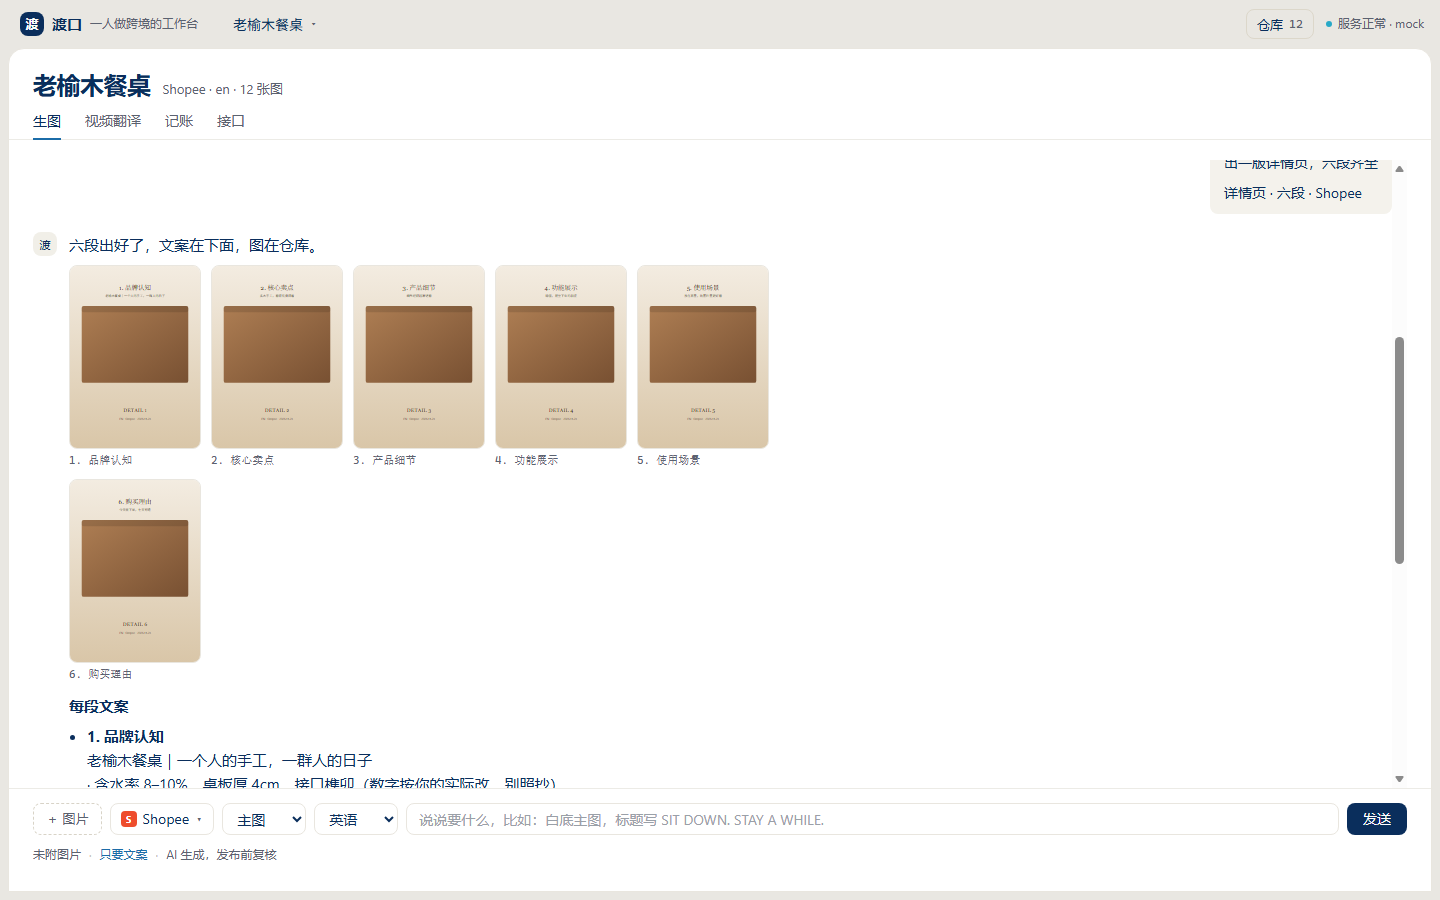
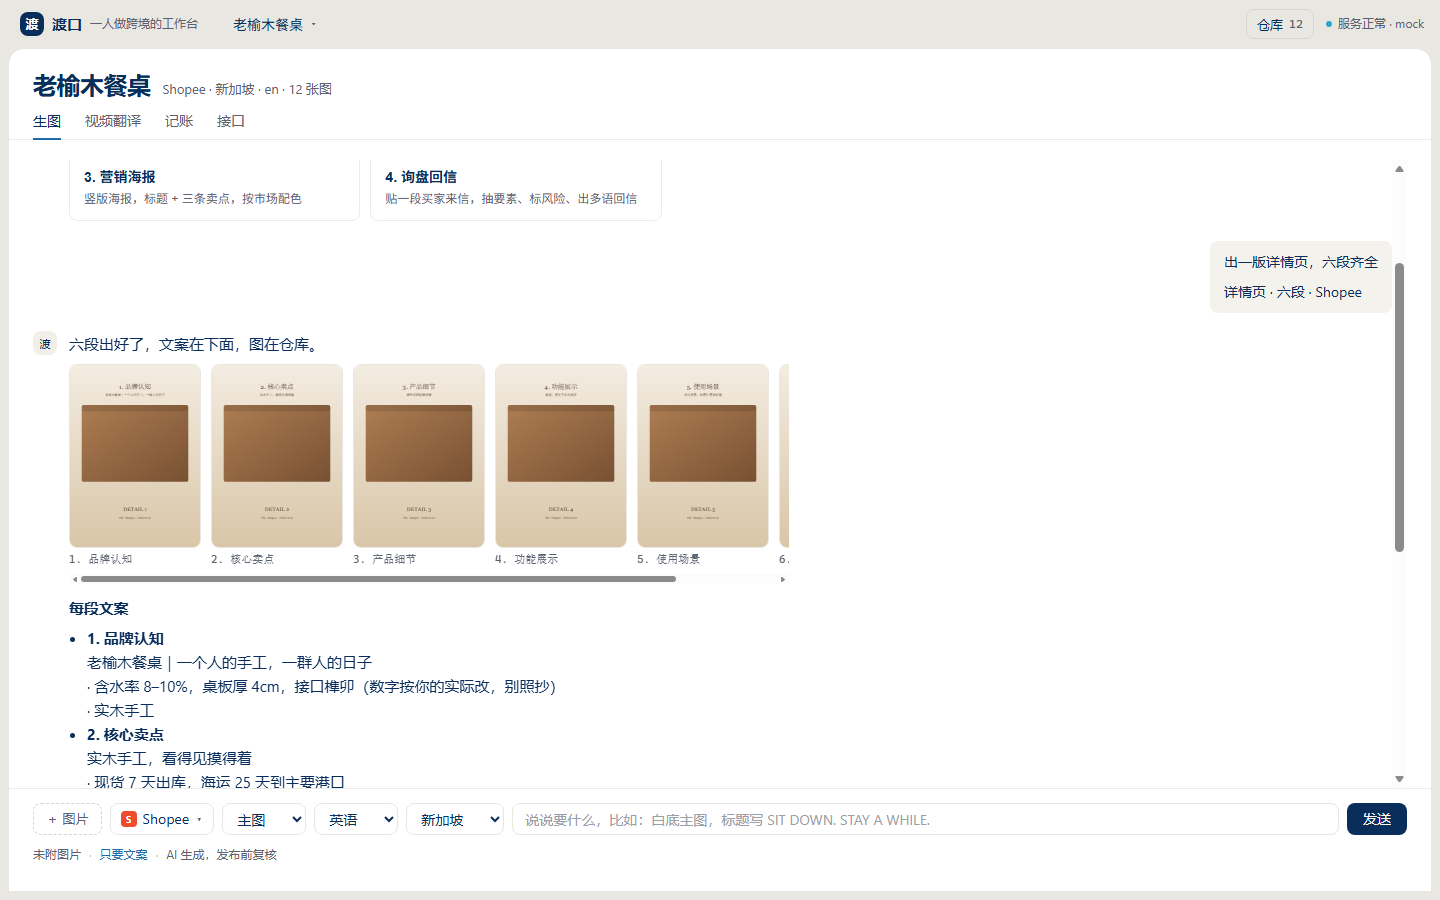
feat(motion): 图集横向吸附、出图落入、删除可撤销（软删 + restore）

diff --git a/web/app.js b/web/app.js
@@ -263,12 +263,53 @@ async function whDeletePicked() {
   refreshMeta();
   renderWhBar();
   renderWarehouse();
+  toast(`已删除 ${ids.length} 张`, async () => {
+    for (const id of ids) await api(`/api/assets/${id}/restore`, { method: 'POST' }).catch(() => {});
+    state.current = await api(`/api/products/${state.current.id}`);
+    refreshMeta();
+    renderWarehouse();
+    toast('已恢复');
+  });
+}
+
+/* 底部提示条：删除这类可逆操作给 6 秒后悔时间 */
+let toastTimer = null;
+function toast(text, onUndo) {
+  const el = $('#toast');
+  if (!el) return;
+  $('#toastText').textContent = text;
+  const btn = $('#toastUndo');
+  btn.classList.toggle('hidden', !onUndo);
+  btn.onclick = async () => {
+    el.classList.remove('show');
+    if (onUndo) await onUndo();
+  };
+  el.classList.remove('hidden');
+  void el.offsetWidth;
+  el.classList.add('show');
+  clearTimeout(toastTimer);
+  toastTimer = setTimeout(() => el.classList.remove('show'), onUndo ? 6000 : 2400);
+  el.addEventListener(
+    'transitionend',
+    () => {
+      if (!el.classList.contains('show')) el.classList.add('hidden');
+    },
+    { once: true },
+  );
 }
 
 function renderWarehouse() {
   const { base, images, copies, content, inquiry } = whAssets();
   const texts = copies.length + content.length + inquiry.length;
-  $('#whCount').textContent = base.length + images.length + texts;
+  const total = base.length + images.length + texts;
+  $('#whCount').textContent = total;
+  if (state.lastWhCount != null && total > state.lastWhCount) {
+    const btn = $('#btnWarehouse');
+    btn.classList.remove('bump');
+    void btn.offsetWidth;
+    btn.classList.add('bump');
+  }
+  state.lastWhCount = total;
   $('#whImgNum').textContent = base.length + images.length;
   $('#whCopyNum').textContent = texts;
   $$('.wh-tab').forEach((t) => t.classList.toggle('active', t.dataset.wh === state.whTab));
@@ -539,8 +580,10 @@ function say(container, who, html, opts = {}) {
 function shots(bubble, assets) {
   const wrap = document.createElement('div');
   wrap.className = 'shots';
-  for (const a of assets) {
+  assets.forEach((a, i) => {
     const fig = document.createElement('figure');
+    fig.className = 'drop';
+    fig.style.animationDelay = `${i * 45}ms`;
     fig.innerHTML = `<img src="${a.url}" alt=""><figcaption>${a.kind} · ${a.width}×${a.height}</figcaption>`;
     const img = fig.querySelector('img');
     img.onclick = () => window.open(a.url, '_blank');
@@ -549,7 +592,9 @@ function shots(bubble, assets) {
       if (scroller) scroller.scrollTop = scroller.scrollHeight;
     };
     wrap.appendChild(fig);
-  }
+  });
+  // 三张以上改成横向吸附条，别把气泡撑成一堵墙
+  if (assets.length > 3) wrap.classList.add('many');
   bubble.appendChild(wrap);
   patchHistory(bubble.innerHTML);
 }
@@ -1136,7 +1181,7 @@ async function doDetail(askText) {
       .join('');
     say(inner, 'ai', `
       <p>六段出好了${r.errors?.length ? `（${r.errors.length} 段失败）` : ''}，文案在下面，图在仓库。</p>
-      <div class="shots">${shots}</div>
+      <div class="shots many">${shots}</div>
       <h3>每段文案</h3><ul>${copies}</ul>
       <p class="muted-sm">${esc(r.note || '')}</p>`);
     refreshMeta();

diff --git a/web/style.css b/web/style.css
@@ -674,3 +674,30 @@ h1 { letter-spacing: -0.02em; }
   .msg.ai.fresh .bubble > *, .wh-item, .wh-item.removing, .wh-grid.settling { animation: none !important; }
   .ripple { display: none; }
 }
+
+/* ============ 补充三项：吸附条 / 落入 / 撤销 ============ */
+
+/* 图集：三张以上横向吸附，速度快时自己滑到位 */
+.shots.many { display: grid; grid-auto-flow: column; grid-auto-columns: 132px; gap: 10px;
+  overflow-x: auto; scroll-snap-type: x mandatory; overscroll-behavior-x: contain;
+  padding-bottom: 6px; scrollbar-width: thin; }
+.shots.many figure { scroll-snap-align: start; }
+.shots.many::-webkit-scrollbar { height: 6px; }
+.shots.many::-webkit-scrollbar-thumb { background: #d9d5cc; border-radius: 3px; }
+
+/* 出图结果落入：从上方压下来一点，像卡牌落桌 */
+@keyframes dropIn { 0% { opacity: 0; transform: translateY(-12px) scale(0.96); } 70% { opacity: 1; transform: translateY(1px) scale(1.004); } 100% { opacity: 1; transform: none; } }
+.shots figure.drop { animation: dropIn 320ms var(--ease-out) both; }
+
+/* 仓库计数弹一下 */
+@keyframes countBump { 0% { transform: scale(1); } 40% { transform: scale(1.22); } 100% { transform: scale(1); } }
+#btnWarehouse.bump .count { animation: countBump 380ms var(--ease-out); display: inline-block; }
+
+/* 撤销条 */
+.toast { position: fixed; left: 50%; bottom: 88px; transform: translate(-50%, 8px); z-index: 60;
+  display: flex; align-items: center; gap: 14px; padding: 10px 16px; border-radius: 999px;
+  background: var(--ink); color: #f5f0e6; font-size: 13px; box-shadow: 0 6px 20px rgba(10, 46, 92, 0.18);
+  opacity: 0; transition: opacity 180ms var(--ease-out), transform 220ms var(--ease-out); pointer-events: none; }
+.toast.show { opacity: 1; transform: translate(-50%, 0); pointer-events: auto; }
+.toast .link { color: #f2c14e; font-weight: 600; }
+@media (prefers-reduced-motion: reduce) { .toast { transition: none; } .shots figure.drop { animation: none; } }

diff --git a/web/index.html b/web/index.html
@@ -189,6 +189,11 @@
   <div id="whBody" class="wh-body"></div>
 </aside>
 
+<div id="toast" class="toast hidden" role="status" aria-live="polite">
+  <span id="toastText"></span>
+  <button id="toastUndo" class="link hidden" type="button">撤销</button>
+</div>
+
 <!-- 出图前问一句：几张、多大、多清晰。常用项都在，最后一格留给自定义 -->
 <script type="module" src="/app.js"></script>
 </body>

diff --git a/README.md b/README.md
@@ -106,6 +106,10 @@ data/             运行时数据（db.json + uploads/），不进 git
 | 参数卡「要几张」 | 速度吸附滑块 | 松手按拖动速度多走一格再吸附整数 |
 | 任务进度条 | 弹簧步进 | rAF 弹簧追目标值，不再一格一格跳 |
 | tab / chip / 平台项 / 按钮 | 波纹 | 点击处涟漪，只给开关类控件 |
-| 仓库删图 | 弧形折叠 | `clip-path + rotate` 收走后再删 |
+| 仓库删图 | 弧形折叠 | `clip-path + rotate` 收走后再删，6 秒内可撤销 |
+| 一条消息多张图 | 横向吸附 | 三张以上改为 scroll-snap 横条，不再堆成一墙 |
+| 出图落袋 | 落入 | 新图从上方压下来，仓库计数同时弹一下 |
 
 规则：所有动效在 `prefers-reduced-motion: reduce` 下关闭；不引入渐变与光晕，uiverse 上只借手法不贴颜色。
+
+撤销：`DELETE /api/assets/:id` 是软删（记 `deletedAt` 并从商品里摘掉），`POST /api/assets/:id/restore` 能放回去；底部提示条 6 秒内可点「撤销」。
